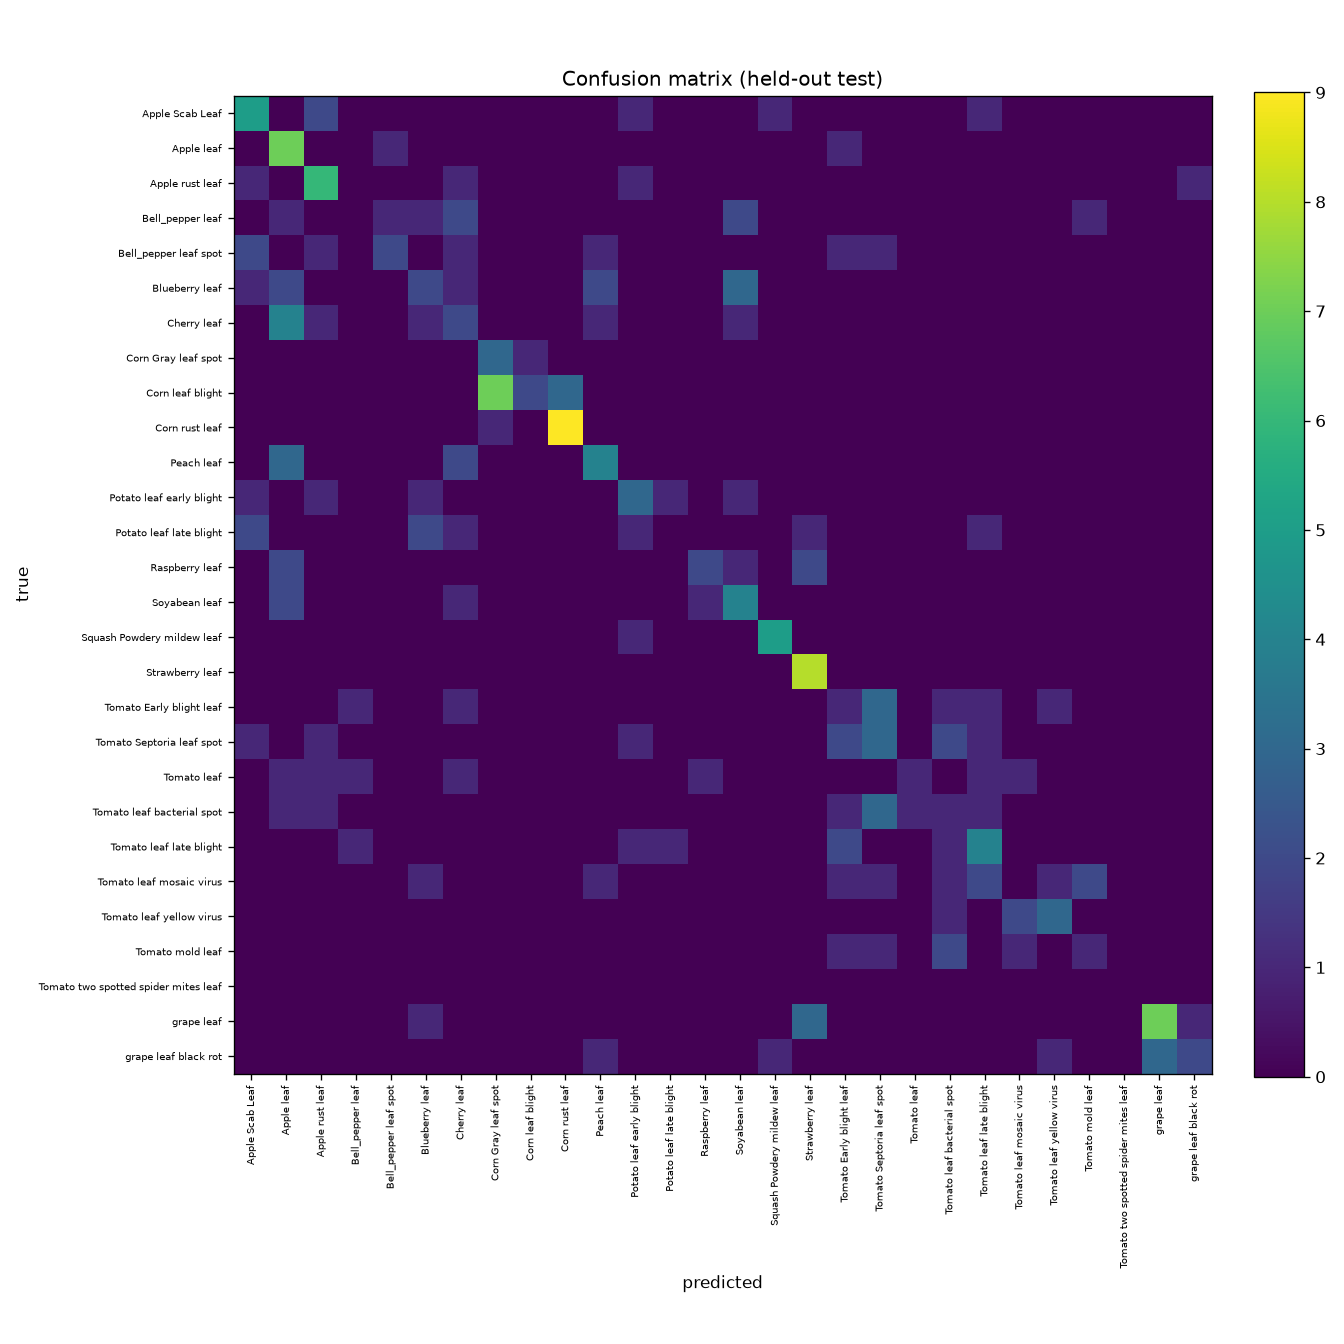
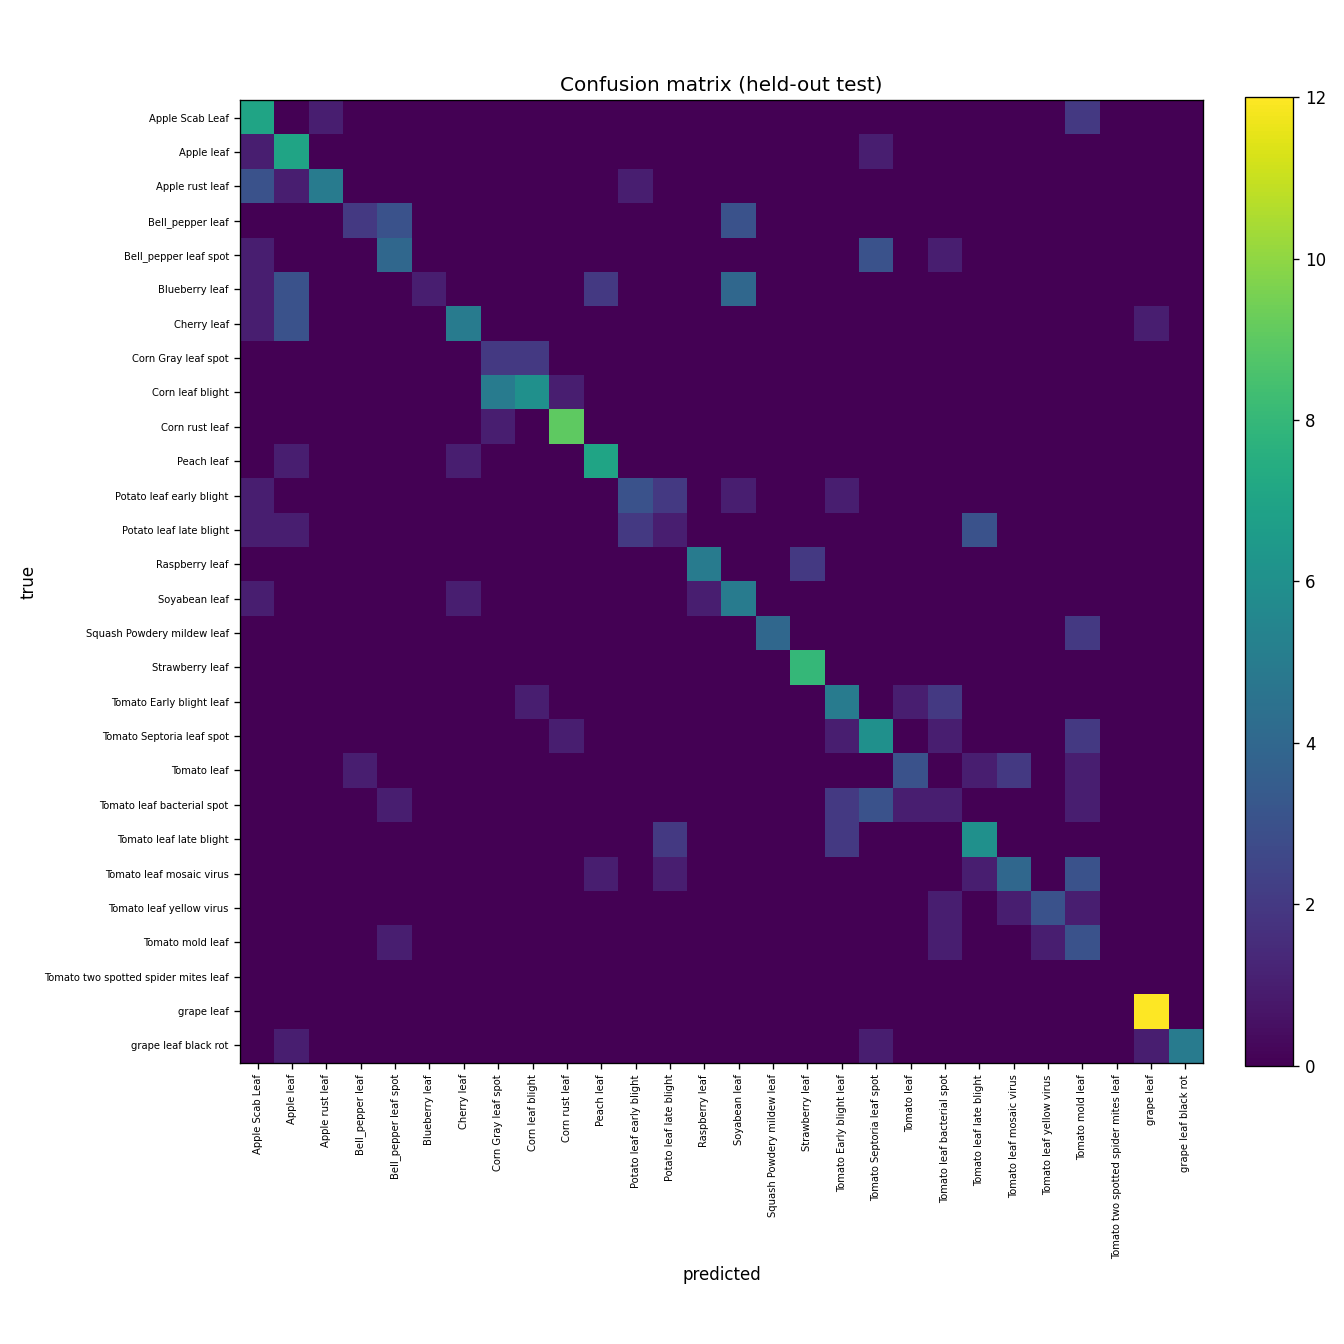
Uploaded new reports from training

diff --git a/leaf-disease-multitask/reports/report.md b/leaf-disease-multitask/reports/report.md
@@ -1,59 +1,59 @@
 # LeafLens — training report
 
 - **Model version:** 0.1.0
-- **Created (UTC):** 2026-06-15T16:53:56.529137+00:00
+- **Created (UTC):** 2026-06-18T19:46:10.691380+00:00
 - **Classes:** 28
-- **Config:** batch_size=16, head_epochs=5, finetune_epochs=3, head_lr=0.001, finetune_lr=1e-05, seg_sample_ratio=0.5, augment=True, use_class_weights=True
+- **Config:** batch_size=32, head_epochs=30, finetune_epochs=30, head_lr=0.001, finetune_lr=1e-05, seg_sample_ratio=0.5, augment=True, use_class_weights=True
 
 ## Validation metrics (mixed multi-task stream)
 
 | metric | value |
 |---|---|
-| classification_accuracy | 0.4036 |
-| classification_loss | 0.5951 |
-| loss | 0.9129 |
-| segmentation_dice | 0.6642 |
-| segmentation_iou | 0.5823 |
-| segmentation_loss | 0.3239 |
+| classification_accuracy | 0.5762 |
+| classification_loss | 0.3711 |
+| loss | 0.5008 |
+| segmentation_dice | 0.8613 |
+| segmentation_iou | 0.7946 |
+| segmentation_loss | 0.1341 |
 
 ## Held-out evaluation
 
-**Segmentation (val split):** IoU 0.5823, Dice 0.6642 over 705 images.
-**Classification (held-out test):** accuracy 0.3686 over 236 images.
+**Segmentation (val split):** IoU 0.7946, Dice 0.8613 over 705 images.
+**Classification (held-out test):** accuracy 0.5466 over 236 images.
 
 ### Per-class (precision / recall / f1)
 
 | class | precision | recall | f1 | support |
 |---|---|---|---|---|
-| Apple Scab Leaf | 0.38 | 0.50 | 0.43 | 10 |
-| Apple leaf | 0.30 | 0.78 | 0.44 | 9 |
-| Apple rust leaf | 0.43 | 0.60 | 0.50 | 10 |
-| Bell_pepper leaf | 0.00 | 0.00 | 0.00 | 8 |
-| Bell_pepper leaf spot | 0.50 | 0.22 | 0.31 | 9 |
-| Blueberry leaf | 0.22 | 0.18 | 0.20 | 11 |
-| Cherry leaf | 0.15 | 0.20 | 0.17 | 10 |
-| Corn Gray leaf spot | 0.27 | 0.75 | 0.40 | 4 |
-| Corn leaf blight | 0.67 | 0.17 | 0.27 | 12 |
-| Corn rust leaf | 0.75 | 0.90 | 0.82 | 10 |
-| Peach leaf | 0.40 | 0.44 | 0.42 | 9 |
-| Potato leaf early blight | 0.33 | 0.38 | 0.35 | 8 |
-| Potato leaf late blight | 0.00 | 0.00 | 0.00 | 8 |
-| Raspberry leaf | 0.50 | 0.29 | 0.36 | 7 |
-| Soyabean leaf | 0.33 | 0.50 | 0.40 | 8 |
-| Squash Powdery mildew leaf | 0.71 | 0.83 | 0.77 | 6 |
-| Strawberry leaf | 0.57 | 1.00 | 0.73 | 8 |
-| Tomato Early blight leaf | 0.10 | 0.11 | 0.11 | 9 |
-| Tomato Septoria leaf spot | 0.25 | 0.27 | 0.26 | 11 |
-| Tomato leaf | 0.50 | 0.12 | 0.20 | 8 |
-| Tomato leaf bacterial spot | 0.11 | 0.11 | 0.11 | 9 |
-| Tomato leaf late blight | 0.33 | 0.40 | 0.36 | 10 |
-| Tomato leaf mosaic virus | 0.00 | 0.00 | 0.00 | 10 |
-| Tomato leaf yellow virus | 0.50 | 0.50 | 0.50 | 6 |
-| Tomato mold leaf | 0.25 | 0.17 | 0.20 | 6 |
-| grape leaf | 0.70 | 0.58 | 0.64 | 12 |
-| grape leaf black rot | 0.50 | 0.25 | 0.33 | 8 |
-| macro avg | 0.36 | 0.38 | 0.34 | 236 |
-| weighted avg | 0.36 | 0.37 | 0.34 | 236 |
+| Apple Scab Leaf | 0.41 | 0.70 | 0.52 | 10 |
+| Apple leaf | 0.41 | 0.78 | 0.54 | 9 |
+| Apple rust leaf | 0.83 | 0.50 | 0.62 | 10 |
+| Bell_pepper leaf | 0.67 | 0.25 | 0.36 | 8 |
+| Bell_pepper leaf spot | 0.44 | 0.44 | 0.44 | 9 |
+| Blueberry leaf | 1.00 | 0.09 | 0.17 | 11 |
+| Cherry leaf | 0.71 | 0.50 | 0.59 | 10 |
+| Corn Gray leaf spot | 0.25 | 0.50 | 0.33 | 4 |
+| Corn leaf blight | 0.67 | 0.50 | 0.57 | 12 |
+| Corn rust leaf | 0.82 | 0.90 | 0.86 | 10 |
+| Peach leaf | 0.70 | 0.78 | 0.74 | 9 |
+| Potato leaf early blight | 0.50 | 0.38 | 0.43 | 8 |
+| Potato leaf late blight | 0.17 | 0.12 | 0.14 | 8 |
+| Raspberry leaf | 0.83 | 0.71 | 0.77 | 7 |
+| Soyabean leaf | 0.38 | 0.62 | 0.48 | 8 |
+| Squash Powdery mildew leaf | 1.00 | 0.67 | 0.80 | 6 |
+| Strawberry leaf | 0.80 | 1.00 | 0.89 | 8 |
+| Tomato Early blight leaf | 0.45 | 0.56 | 0.50 | 9 |
+| Tomato Septoria leaf spot | 0.43 | 0.55 | 0.48 | 11 |
+| Tomato leaf | 0.60 | 0.38 | 0.46 | 8 |
+| Tomato leaf bacterial spot | 0.14 | 0.11 | 0.12 | 9 |
+| Tomato leaf late blight | 0.55 | 0.60 | 0.57 | 10 |
+| Tomato leaf mosaic virus | 0.57 | 0.40 | 0.47 | 10 |
+| Tomato leaf yellow virus | 0.75 | 0.50 | 0.60 | 6 |
+| Tomato mold leaf | 0.20 | 0.50 | 0.29 | 6 |
+| grape leaf | 0.86 | 1.00 | 0.92 | 12 |
+| grape leaf black rot | 1.00 | 0.62 | 0.77 | 8 |
+| macro avg | 0.60 | 0.54 | 0.53 | 236 |
+| weighted avg | 0.61 | 0.55 | 0.54 | 236 |
 
 ## Training curves
 

diff --git a/leaf-disease-multitask/README.md b/leaf-disease-multitask/README.md
@@ -110,6 +110,14 @@ npm install
 npm run dev                      # http://localhost:5173
 ```
 
+## Train on Colab, infer locally
+
+No GPU? Train on a free Colab GPU and drop the result into a local install for
+serving — training and serving are decoupled by the model registry, so a run
+produces a self-contained version folder you just copy in and activate. See
+[`docs/COLAB.md`](docs/COLAB.md) and the ready-to-run
+[`notebooks/train_colab.ipynb`](notebooks/train_colab.ipynb).
+
 ## API
 
 | Method | Path            | Description |